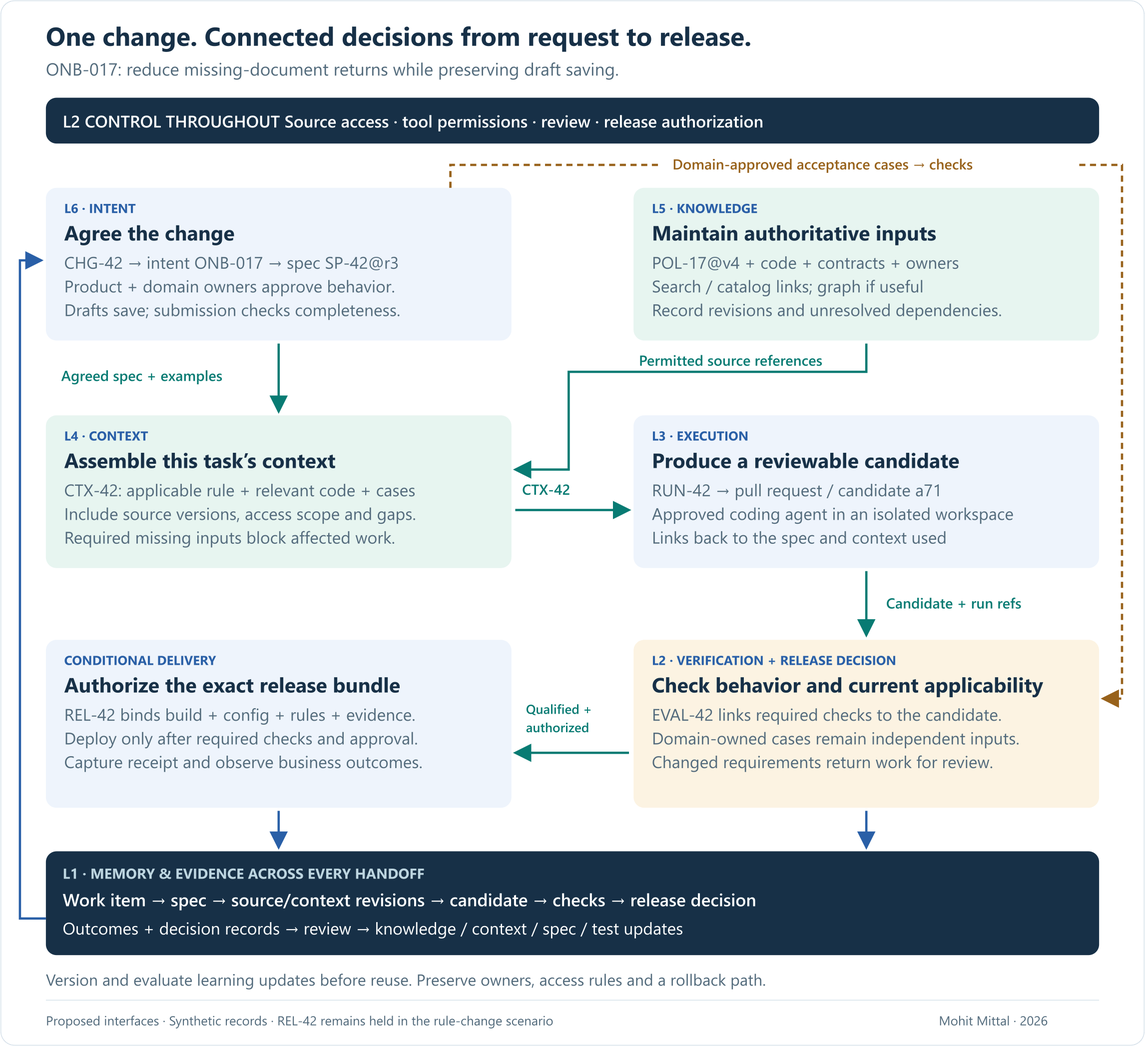
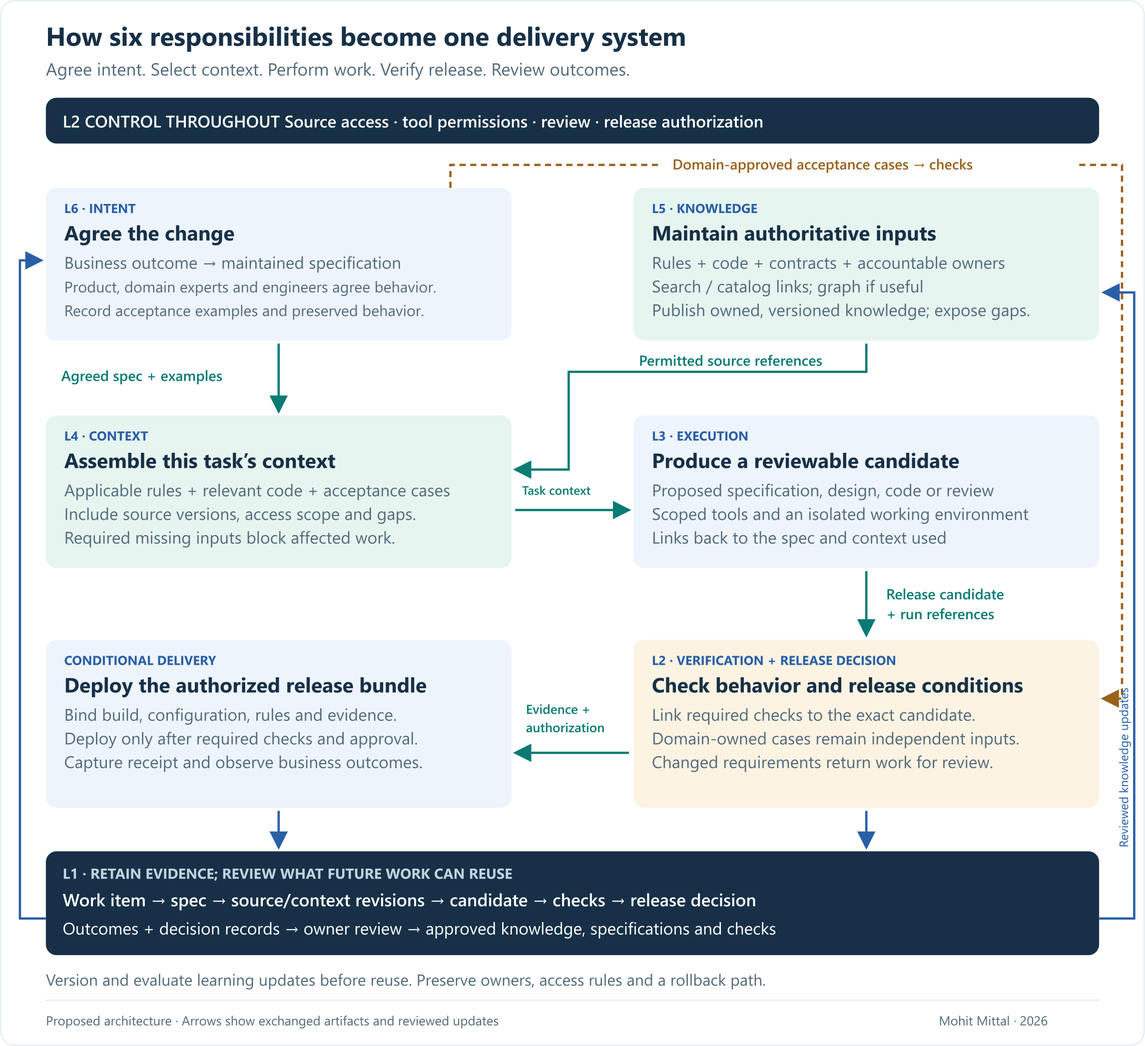
Lead AI-DLC with the delivery problem and connect architecture, learning and build-buy decisions

diff --git a/README.md b/README.md
@@ -6,93 +6,82 @@ A leader’s guide to connecting intent, knowledge, AI-assisted work and verifie
 
 **A six-minute guided overview · Mohit Mittal · September 2026**
 
-**Enterprise AI-DLC is a connected delivery system:** an agreed business change becomes a maintained specification; relevant enterprise knowledge becomes context for AI-assisted work; the resulting code, checks and release decision remain linked.
+An enterprise can give teams AI coding tools and still struggle to turn a business request into a reliable production change. If requirements, domain rules, code and release decisions are disconnected, faster implementation can move work into clarification, review and recovery.
 
-**For leaders establishing AI-native delivery, the decision is architectural:** connect six responsibilities across people, process and technology. A coding agent and its harness cover part of execution; they do not establish the whole delivery capability. Make a **build-versus-buy decision at each layer**, including reuse of existing platforms.
+**The AI-driven development lifecycle (AI-DLC) needs a delivery architecture around the agent.** This paper organizes it into six responsibilities: **Intent, Knowledge, Context, Execution, Control, and Memory & Evidence.** Together they connect what the business wants, what the team and agent need to know, what they produce and the evidence for releasing it.
 
-- **Intent drives the work:** the agreed outcome and acceptance examples follow the change beyond the Jira ticket.
-- **Knowledge becomes task context:** agents receive applicable, permitted sources with known gaps.
-- **Evidence closes the loop:** checks support release decisions; reviewed production outcomes improve future specifications and tests.
+For a leader, the decision is where to reuse existing capabilities, buy missing ones or build justified integrations—and who will operate them. The aim is shorter delivery time and less total effort while preserving quality, measured across the whole change.
 
-**Think of it as an AI-native software factory:** a repeatable delivery capability that improves through reviewed experience. Outcomes and decision records feed better knowledge, task context, specifications and checks for the next change.
+**An AI-native software factory is that repeatable delivery system with a reviewed learning loop.** Findings from delivery and production become approved updates to specifications, knowledge, context and checks. Each new change can use those improvements; better results must still be demonstrated.
 
 <a id="1--start-with-a-change-that-looks-right-and-still-fails"></a>
 
-## 1 · Follow one business request through the system
+## 1 · Connect six responsibilities around every change
 
-Consider fictional onboarding change **ONB-017**: **“Reduce applications returned for missing documents, without interrupting an advisor's draft work.”**
+[![Six responsibilities connect agreed intent and enterprise knowledge to task context, AI-assisted work, verification and release; reviewed outcomes improve future work](diagrams/connected-delivery.png)](diagrams/connected-delivery.png)
 
-The request enters Jira as **CHG-42**. The document rules, application code and service ownership records live elsewhere. The team must bring them together, agree the behavior, implement it and establish whether the resulting software can ship.
-
-That is the work this architecture connects:
-
-[![One change connects agreed intent and enterprise sources to task context, a coding candidate, independent checks and a conditional release, with evidence and feedback throughout](diagrams/connected-delivery.png)](diagrams/connected-delivery.png)
-
-*Arrows identify exchanged artifacts. The layers are logical responsibilities; control and evidence operate throughout. This is a proposed integration, not an implemented workflow. Select any diagram for full resolution.*
+*Logical responsibilities, not six sequential phases or six mandatory products. Control and evidence apply throughout. Select a diagram for full resolution.*
 
 <a id="2--give-each-layer-a-concrete-job"></a>
 
-## 2 · What each layer contributes to this change
+**L6 · Intent — agree the outcome and expected behavior.** Product, domain experts and engineering maintain a specification with acceptance examples. Jira or another tracker records priority and commitment; the specification defines the behavior to deliver.
 
-**L6 · Intent — turn the request into an agreed specification.** Product, operations and engineering agree that incomplete drafts must save, while submission checks the applicable document requirements. A maintained specification records these examples and links back to the work item. It gives the agent and reviewers a shared definition of success.
+**L5 · Knowledge — maintain authoritative sources and relationships.** Domain owners steward rules, code, interfaces and ownership records. Search and catalog links may suffice. Add a knowledge graph when recurring dependency questions justify maintaining its relationships and provenance.
 
-**L5 · Knowledge — establish the sources the change must respect.** The specification references document rule **POL-17**, relevant code, supported interfaces and known owners. Search and catalog links may suffice. A knowledge graph can help answer repeated questions such as “which services and tests depend on this rule?” Its relationships need provenance and maintenance.
+**L4 · Context — select what this task may use.** Design, implementation and verification need different inputs. Select relevant, permitted source revisions; expose conflicts and gaps. Required missing information pauses affected work. A knowledge store alone does not perform this selection.
 
-**L4 · Context — select what each task needs.** Requirements, design, coding and verification need different context. Here, implementation receives the relevant rule revision, save/submit code, interface contracts and acceptance examples as **CTX-42**, with source references, access checks and unresolved gaps. Maintaining a knowledge store does not automatically produce this selection. Required missing information pauses the affected work.
+**L3 · Execution — perform bounded development work.** Agents can draft requirements, explore designs, implement changes or assist review. Their harness—the software managing model calls, tools and run state—needs scoped access, isolation and stopping rules. Engineers own the resulting change.
 
-**L3 · Execution — perform bounded development tasks.** AI can draft requirements, explore designs, implement changes or assist verification; each task needs scoped tools, review and stopping rules. Here, an approved coding agent proposes a linked candidate in isolation. Deterministic build tools still do their established work.
+**L2 · Control — constrain actions and verify results.** Apply access controls throughout. Evaluate candidates against domain-owned cases, ordinary software tests and security checks. Required evidence and authorization govern release; an agent's completed task does not.
 
-**L2 · Control — check the candidate against independently agreed behavior.** Access and execution controls apply throughout; CI also receives domain-owned acceptance cases. One preservation check asks whether an incomplete draft still saves. It catches a plausible mistake: adding the document check to code shared by save and submit. Completing the agent's task does not authorize release.
-
-**L1 · Memory & evidence — retain the change's history and learn from outcomes.** Link inputs, candidate, checks and decisions to the release record. After an authorized deployment, capture its receipt and business outcomes. Decision records capture sources, alternatives, rationale and approvals. Review failures and outcomes before updating knowledge, context policies or tests; raw traces are not trusted guidance.
+**L1 · Memory & Evidence — retain decisions and review outcomes.** Link sources, specifications, runs, checks and releases. Record concise rationale, owners and outcomes. Service and domain owners review this experience before promoting reusable guidance into knowledge, context or tests.
 
 <a id="3--connect-jira-specifications-and-context-without-creating-duplicate-truth"></a>
 
-## 3 · Make build-versus-buy decisions across the architecture
+## 2 · Make a build-versus-buy decision at every layer
 
-[![Six-layer architecture maps existing capabilities to potential custom components, with enterprise accountability in either choice](diagrams/six-layer-reference.png)](diagrams/six-layer-reference.png)
+[![Build-versus-buy map pairs candidate tools with gaps that may justify custom components; enterprise accountability remains in either choice](diagrams/six-layer-reference.png)](diagrams/six-layer-reference.png)
 
-**Buy or reuse** established capabilities where they fit. **Build or adapt** domain components and missing integrations when a demonstrated gap justifies their lifecycle cost. The enterprise remains accountable for business rules, access, acceptance and release decisions in either choice. A knowledge graph or custom orchestration is conditional, not a prerequisite.
+Reuse or buy capabilities that meet the need; build missing components when the gap justifies their lifecycle cost. Buying implementation leaves the enterprise accountable for business meaning, access, acceptance and release decisions.
 
-For example, **Jira records priority and status; a maintained specification records agreed behavior; the agent run records an implementation attempt.** The enterprise owns their linking and conflict-resolution rules. Verified deployment events update delivery status; repairing a tracker update must not deploy the software again.
+For a team already using Jira, Git and CI, start by linking its work item, maintained specification, agent attempt and release evidence. Buy an execution capability that fits the environment. Fund a custom adapter only where supported interfaces fail the required contract. Include source stewardship, review, integration support and recovery in both options' costs.
 
-[Kiro specs](https://kiro.dev/docs/specs/) or [GitHub Spec Kit](https://github.github.com/spec-kit/reference/agentic-sdd.html) can structure specification work. [Birgitta Böckeler's analysis](https://martinfowler.com/articles/exploring-gen-ai/sdd-3-tools.html) explains the importance of maintaining specifications through changes. The six-layer integration is this paper's proposal; tool combinations require evaluation. [Layer-by-layer options](ECOSYSTEM.md)
+[Kiro specs](https://kiro.dev/docs/specs/) and [GitHub Spec Kit](https://github.github.com/spec-kit/reference/agentic-sdd.html) are specification options. [Birgitta Böckeler's analysis](https://martinfowler.com/articles/exploring-gen-ai/sdd-3-tools.html) examines their differing approaches. The six-layer integration here is an independent proposal. [Tools and decision tests by layer](ECOSYSTEM.md)
 
 <a id="4--keep-a-passing-result-attached-to-what-it-actually-checked"></a>
 
-## 4 · Show why the connections matter when something changes
+## 3 · Test the connections with one change
 
-Suppose **POL-17 v5** becomes effective for the intended rollout and adds a required document after the candidate was checked against v4.
+Consider a fictional onboarding request: **reduce applications returned for missing documents while preserving the ability to save unfinished drafts.**
 
-The linked records identify the specification, task context, candidate and checks to investigate. The domain owner confirms applicability; engineering reviews affected behavior and dependencies. Retain earlier results as history, rerun affected checks and justify any evidence reused.
+Intent records both behaviors. Knowledge supplies the applicable document rule and code; context selects them for implementation. The agent proposes a change. An independent control catches a document check incorrectly placed in shared save/submit code. Engineering confines it to submission and verifies both behaviors. Evidence links the corrected candidate to the specification and rule version.
 
-Release candidate **REL-42 remains held** until required evidence and authorization cover the exact build, configuration and applicable rules. Unknown dependencies remain visible. The architecture turns the changed input into assigned work and a traceable release decision. [Worked rule-change review](WORKED-EXAMPLE.md#a-rule-changes-before-the-candidate-ships)
+In this hypothetical sequence, the agreed checks pass; then a revised rule becomes effective before release and requires another document. The domain owner confirms applicability; engineering uses the links to investigate affected code and checks. Keep earlier results as history, rerun affected checks and justify evidence reused. Hold release until required evidence and authorization cover the exact build, configuration and applicable rule.
+
+This exercises the architecture's connections. A graph may help locate known dependencies; it cannot prove the map is complete. [Detailed records and failure cases](WORKED-EXAMPLE.md)
 
 <a id="5--fund-the-interfaces-and-the-people-who-keep-them-useful"></a>
 
-## 5 · Establish the capability, then expand it
+## 4 · Operate the factory and improve it
 
-Product owns the benefit; domain experts own rules and examples; engineers own correctness; the platform team owns shared connections; service owners own release and recovery. Review capacity limits useful agent concurrency.
+When review or production exposes a failure, identify whether its cause lies in the specification, source selection, implementation or checks. An owner reviews, versions and evaluates the correction before reuse, retaining a rollback path. Compare recurrence and rework across similar changes. Raw traces do not become trusted knowledge automatically.
 
-Start with one change type. Map existing capabilities to all six layers and name owners. Connect a thin path from agreed intent to release evidence; test missing context, changed rules and recovery before expanding. Measure delivery time, total human effort, failures and cost across all attempts. Separately track missing-document returns, draft-save success and operations handling time.
+Product owns benefit; domain experts own rules; engineers own correctness; platform teams own shared connections; service owners own release and recovery. Review capacity limits useful agent concurrency.
 
-**The expansion test:** can another team reuse the work/specification, context, execution and release interfaces with its own rules and acceptance cases—and improve delivery without shifting effort into review and operations?
+Start with one change type using existing platforms. Test missing context, changed rules and recovery. Compare delivery time, total human effort, failure rates and cost per accepted change across all attempts. Separately measure the business outcome. Expand when a second team can reuse the interfaces with its own rules and demonstrate value without shifting effort into review or operations.
 
-[Full architecture paper](PAPER.md) · [Worked artifacts](WORKED-EXAMPLE.md) · [Patterns, tradeoffs and metrics](FIELD-GUIDE.md) · [Sources](SOURCES.md)
+[Full architecture paper](PAPER.md) · [Patterns, tradeoffs and metric definitions](FIELD-GUIDE.md) · [Sources](SOURCES.md)
 
 ---
 
 ## About the author
 
-**Mohit Mittal · Chief Architect**
+**Mohit Mittal · Chief Architect · 22+ years**
 
 **The future of AI depends on disciplined engineering.**
 
-Mohit brings 22+ years in enterprise architecture and distributed systems, including production LLM/RAG work at Chegg and governed agent infrastructure and MCP servers in healthcare.
+Mohit's experience includes production LLM/RAG at Chegg and target-state architecture for an AI-native healthcare platform. His work spans agentic AI, AI-assisted development frameworks, evaluation, guardrails and observability.
 
-His focus spans RAG, agentic systems and the AI-driven development lifecycle (AI-DLC), with continuous evaluation, enforceable guardrails and agent observability. This paper applies that approach to software delivery for advisor and operations capabilities in regulated financial services.
+*Independent architecture proposal. Examples are synthetic; tool combinations require evaluation.*
 
-*Independent architecture proposal. Examples are synthetic; tool combinations are candidates to evaluate.*
-
-[Full paper](PAPER.md) · [Build/buy decisions and operating metrics](FIELD-GUIDE.md) · [Agent authority at runtime](https://github.com/appliedgenai/earned-autonomy) · [CC BY 4.0](LICENSE.md)
-
+[Agent authority at runtime](https://github.com/appliedgenai/earned-autonomy) · [CC BY 4.0](LICENSE.md)

diff --git a/PAPER.md b/PAPER.md
@@ -6,19 +6,15 @@ A leader’s guide to connecting intent, knowledge, AI-assisted work and verifie
 
 *Mohit Mittal · September 2026*
 
-**Enterprise AI-DLC connects an agreed business change to the knowledge, coding work and release evidence needed to deliver it.** The architecture defines what crosses those boundaries, who owns each decision and how a change remains traceable when its inputs evolve.
+An enterprise can give teams AI coding tools and still struggle to turn a business request into a reliable production change. If requirements, domain rules, code and release decisions are disconnected, faster implementation can move work into clarification, review and recovery.
 
-**For leaders establishing AI-native delivery, the decision is architectural:** connect six responsibilities across people, process and technology. A coding agent and its harness cover part of execution; they do not establish the whole delivery capability. Make a **build-versus-buy decision at each layer**, including reuse of existing platforms. Three ideas organize the proposal:
+**The AI-driven development lifecycle (AI-DLC) needs a delivery architecture around the agent.** This paper organizes it into six responsibilities: **Intent, Knowledge, Context, Execution, Control, and Memory & Evidence.** Together they connect what the business wants, what the team and agent need to know, what they produce and the evidence for releasing it.
 
-- **Intent drives the work:** maintain agreed behavior and acceptance examples beyond the work item.
-- **Knowledge becomes task context:** select applicable, permitted sources for the work being attempted.
-- **Evidence closes the loop:** connect checks and authorization to the actual release; review outcomes before changing future guidance.
+For a leader, the decision is where to reuse existing capabilities, buy missing ones or build justified integrations—and who will operate them. The aim is shorter delivery time and less total effort while preserving quality, measured across the whole change.
 
-The six layers are **Intent, Knowledge, Context, Execution, Control, and Memory & Evidence**. They are logical responsibilities, not six sequential phases or mandatory services. Existing products may implement several. Control and evidence apply throughout.
+**An AI-native software factory is that repeatable delivery system with a reviewed learning loop.** Findings from delivery and production become approved updates to specifications, knowledge, context and checks. Each new change can use those improvements; better results must still be demonstrated.
 
-The contribution is the integration architecture and operating contracts around established delivery responsibilities.
-
-**Think of it as an AI-native software factory:** a repeatable delivery capability that improves through reviewed experience. Outcomes and decision records feed better knowledge, task context, specifications and checks for the next change.
+The layers are logical responsibilities, not six lifecycle phases or mandatory services. Control and evidence apply throughout. Existing products may implement several responsibilities.
 
 [Six-minute brief](README.md) · [Worked artifacts](WORKED-EXAMPLE.md) · [Operating field guide](FIELD-GUIDE.md)
 
@@ -30,7 +26,7 @@ The factory metaphor means repeatable delivery with explicit quality controls an
 
 A decision record should capture the question, applicable source revisions, alternatives considered, chosen approach and concise rationale, unresolved assumptions, accountable approver and links to the resulting artifact and outcome. Record decision evidence, not hidden model chain-of-thought. Apply access, redaction and retention rules; greater trace volume alone is not better learning.
 
-In the onboarding example introduced below, a rejected candidate may reveal that context omitted the draft-saving invariant. The team first determines whether the cause was missing context, an ambiguous specification or an implementation error. It then fixes the relevant asset: a maintained specification example, a context-selection rule or an independent regression check. It does not teach every future agent to copy the failed run.
+In the onboarding example introduced below, a rejected candidate may reveal that context omitted the requirement that users can save unfinished applications. The team first determines whether the cause was missing context, an ambiguous specification or an implementation error. It then fixes the relevant asset: a maintained specification example, a context-selection rule or an independent regression check. It does not teach every future agent to copy the failed run.
 
 **L1 retains the experience; L5 publishes approved knowledge; L4 selects the revised material for a new task.** Reviewers version and test a proposed update before promotion, record its scope and owner, and retain a rollback path. Human-authored and AI-proposed updates follow the same authority rules. Updating retrieval, guidance and checks usually comes before considering model training; fine-tuning is a separate, evidence-based decision, not an automatic feedback step.
 
@@ -40,7 +36,7 @@ Measure whether repeated failure categories decline across comparable changes, w
 
 AI-native delivery means deliberately embedding AI assistance across the development lifecycle while retaining accountable decisions and enforceable controls. It does not require autonomous execution of every activity. Treat the layers as a capability map, not a shopping list or an organization chart.
 
-1. **Map the current system.** For each layer identify existing platforms, authoritative records, decision owners, gaps and measurable failure demand. Include product, domain, engineering, platform, security and operations leaders.
+1. **Map the current system.** For each layer identify existing platforms, authoritative records, decision owners, gaps and recurring rework and recovery effort. Include product, domain, engineering, platform, security and operations leaders.
 2. **Connect one delivery path.** Select a bounded change type. Agree the specification and independent acceptance cases; connect source access, task context, execution, verification and release records. Reuse working enterprise services.
 3. **Test the operating model.** Exercise missing or revoked context, changed requirements, failed checks, interrupted runs and duplicate events. Demonstrate who resolves each exception and how work safely resumes.
 4. **Fund proven gaps.** Compare configuration, purchase and custom implementation against the same acceptance exercises. Include integration, stewardship, evaluation, review capacity, support and exit costs. Every custom component needs an owner and support model.
@@ -58,7 +54,7 @@ The coding agent performs **RUN-42** and proposes candidate **a71**. Required ch
 
 [![The same change connects intent and knowledge to context, a coding candidate, independent verification and conditional delivery, with retained evidence and reviewed feedback](diagrams/connected-delivery.png)](diagrams/connected-delivery.png)
 
-These are illustrative records, not a completed integration or executed results. REL-42 remains held in the later rule-change scenario. After an actual authorized deployment, its receipt and observed workflow outcomes would complete the record and inform reviewed updates to sources, specifications or tests.
+The diagram shows the general delivery flow; the records above apply it to this example. These are illustrative records, not a completed integration or executed results. REL-42 remains held in the later rule-change scenario. After an actual authorized deployment, its receipt and observed workflow outcomes would complete the record and inform reviewed updates to sources, specifications or tests.
 
 The save/submit regression below is one example of a control catching a faulty implementation. Reuse, explicit handoffs and evidence across changes are the enterprise design problem.
 
@@ -335,7 +331,7 @@ The durable asset is a delivery system that preserves intent, knows its sources,
 
 **The future of AI depends on disciplined engineering.**
 
-Mohit brings 22+ years in enterprise architecture and distributed systems, including production LLM/RAG work at Chegg and governed agent infrastructure and MCP servers in healthcare.
+Mohit brings 22+ years in enterprise architecture and distributed systems, including production LLM/RAG work at Chegg, target-state architecture for an AI-native healthcare platform, and AI-assisted development frameworks for distributed teams.
 
 His focus spans RAG, agentic systems and the AI-driven development lifecycle (AI-DLC), with continuous evaluation, enforceable guardrails and agent observability. This paper applies that approach to software delivery for advisor and operations capabilities in regulated financial services.
 

diff --git a/ECOSYSTEM.md b/ECOSYSTEM.md
@@ -1,10 +1,21 @@
-# Ecosystem architecture
+# Tools and build-versus-buy decisions by layer
 
-The current architecture is consolidated in [From Intent to Production](PAPER.md). Start with the [six-minute brief](README.md).
+[Architecture overview](README.md) · [Full paper](PAPER.md) · [Acceptance exercises](FIELD-GUIDE.md#make-build-versus-buy-a-testable-decision)
 
-The full paper covers work tracking and specifications, enterprise knowledge and graphs, task context, agent execution, evaluation/control, memory/evidence, build/buy decisions, cross-layer contracts, patterns and operating measures.
+Start from the capability and its required behavior. A product may cover several layers; none of the rows requires a new product. These are candidates to evaluate in the intended deployment mode, not a tested bundle.
 
-[![Six-layer reference architecture](diagrams/six-layer-reference.png)](diagrams/six-layer-reference.png)
+| Layer | Candidate capabilities and tools | What could justify building or adapting a component? |
+|---|---|---|
+| **Intent** | Existing Jira, Azure Boards, Linear or GitHub Projects; Kiro specs or Spec Kit for specification work. | Native links cannot preserve work/specification/PR identity and approved status transitions. Build the missing adapter, not another tracker. |
+| **Knowledge** | Git and document sources; Backstage catalog; existing search, OpenSearch or pgvector; Neo4j when relationship queries justify it. | Required source semantics, permissions or validated relationships cannot be maintained by available connectors. Domain owners still steward meaning. |
+| **Context** | Native code search and repository guidance; LlamaIndex, Neo4j GraphRAG or managed retrieval where needed. | Repeated selection, authorization or freshness failures justify a shared context assembler. Measure omissions and stewardship effort before adding infrastructure. |
+| **Execution** | Kiro or an approved coding agent; isolated runners and existing CI. LangGraph or Temporal address different orchestration needs when required. | Required domain tools, cancellation or recovery are unsupported through configuration. An adapter cannot create missing provider guarantees. |
+| **Control** | Existing CI/tests and deployment controls; OPA, ArchUnit or Promptfoo for relevant policy, architecture or AI checks. | Domain acceptance cases or binding evidence to the actual release cannot be expressed through current controls. Prompts do not enforce this boundary. |
+| **Memory & Evidence** | Git/CI artifacts, incident systems and telemetry; OpenTelemetry conventions and Langfuse for relevant instrumentation and analysis. | Teams cannot correlate a change's decisions and outcomes or promote reviewed learning. Add the missing links and review workflow before replacing storage. |
 
-[Build/buy exercises and operating field guide](FIELD-GUIDE.md) · [Connected worked example](WORKED-EXAMPLE.md) · [Structured design artifacts](examples/README.md) · [Sources](SOURCES.md)
+Keep enterprise identity, secrets, model access, data lifecycle and cost attribution shared where existing services meet the need. Assign an owner to every integration and specify how it handles access changes, failures, duplicate events and recovery.
+
+Compare build and buy against the same [layer-specific acceptance exercises](FIELD-GUIDE.md#make-build-versus-buy-a-testable-decision). Include licenses, integration, source stewardship, review, support and exit costs. Purchasing implementation does not transfer accountability for business rules or release decisions.
+
+The [full paper](PAPER.md#the-six-layer-architecture) explains the boundaries and links to product documentation. The [source register](SOURCES.md) distinguishes documented capabilities from this proposed integration.
 

diff --git a/WORKED-EXAMPLE.md b/WORKED-EXAMPLE.md
@@ -44,22 +44,28 @@ These choices expose the tradeoff: blocking uncertain submissions can protect co
 
 ## Context manifest
 
+This earlier discovery snapshot records unresolved inputs. It is not the implementation pack CTX-42 used later in the example. Null revisions mean unavailable evidence, not an invitation to infer a current version.
+
 ```yaml
 intent: ONB-017/v1
+stage: discovery
 task: assess-change-impact
 environment: isolated-development
 sources_required:
   - kind: document-rule
-    revision: REQUIRED_BEFORE_EXECUTION
+    revision: null
+    status: unresolved
     authority: operations-rule-owner
   - kind: save-and-submit-code
-    revision: REQUIRED_COMMIT_SHA
+    revision: null
+    status: unresolved
     authority: onboarding-service-owner
   - kind: consumer-contracts
-    revision: REQUIRED_BEFORE_EXECUTION
+    revision: null
+    status: unresolved
     authority: each-supported-consumer-owner
   - kind: acceptance-cases
-    revision: TEST-42/r2
+    revision: TEST-42@r2
 known_gaps:
   - complete-consumer-inventory-not-yet-demonstrated
   - rule-effective-date-semantics-await-domain-confirmation
@@ -71,7 +77,7 @@ blocked_work:
   - assume-unknown-consumers-do-not-exist
 ```
 
-The placeholders are intentional. A source's missing revision must be resolved before a decision relies on it. The pack can support discovery while remaining insufficient for release.
+Discovery may identify missing sources and owners. It cannot establish behavior that depends on unavailable inputs. Before implementation, resolve the required source revisions, confirm effective-date semantics and issue a new bound context pack. The later CTX-42 episode assumes those steps have occurred; it does not turn this discovery snapshot into release evidence.
 
 ## Change decomposition
 

diff --git a/SOURCES.md b/SOURCES.md
@@ -43,5 +43,5 @@ Product names illustrate capabilities rather than a tested integration or procur
 
 The ONB-017 failure, hypothetical EVAL-42 pass, POL-17 rule change and held release candidate are an original design example. The fourteen revalidation scenarios are unexecuted specifications. No cited vendor or author is claimed to prescribe these IDs, the release-manifest design or this exact six-layer architecture.
 
-Ten high-impact primary sources were rechecked for this revision: Kiro specs/steering/hooks; Böckeler's SDD/context/harness articles; Spec Kit; Atlassian's announcement; Neo4j retrieval guidance; and DORA metrics. Product documentation supports candidate capabilities. The architecture must still be implemented and tested in its intended environment.
+Product documentation supports candidate capabilities. The architecture must still be implemented and tested in its intended environment.
 

diff --git a/diagrams/README.md b/diagrams/README.md
@@ -1,6 +1,6 @@
 # Architecture diagrams
 
-- [One connected change from intent and knowledge to conditional release](connected-delivery.png)
+- [Six responsibilities connected from intent to release and reviewed learning](connected-delivery.png)
 - [Six-layer reference architecture](six-layer-reference.png)
 - [Jira, specifications and delivery](jira-spec-delivery.png)
 - [Knowledge versus task context](knowledge-to-context.png)
